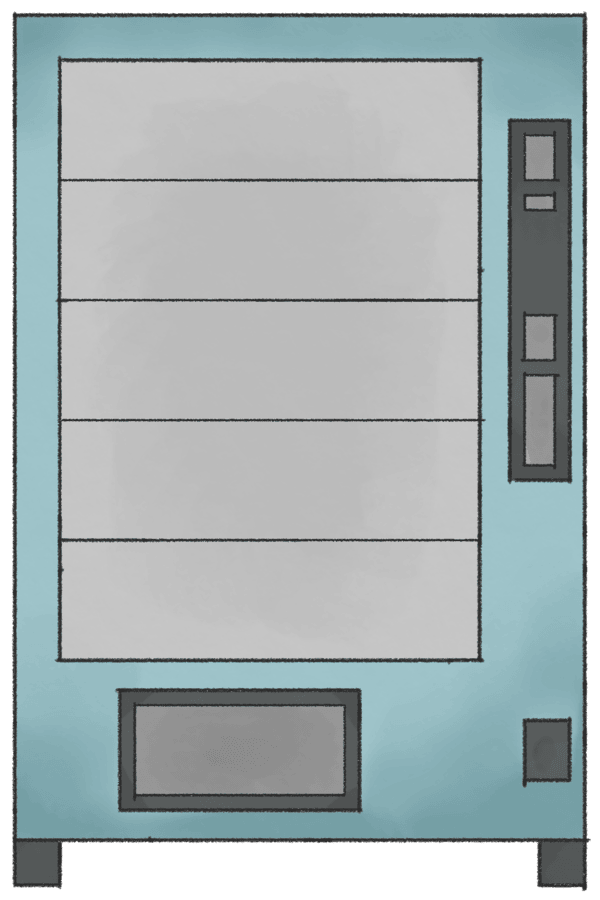
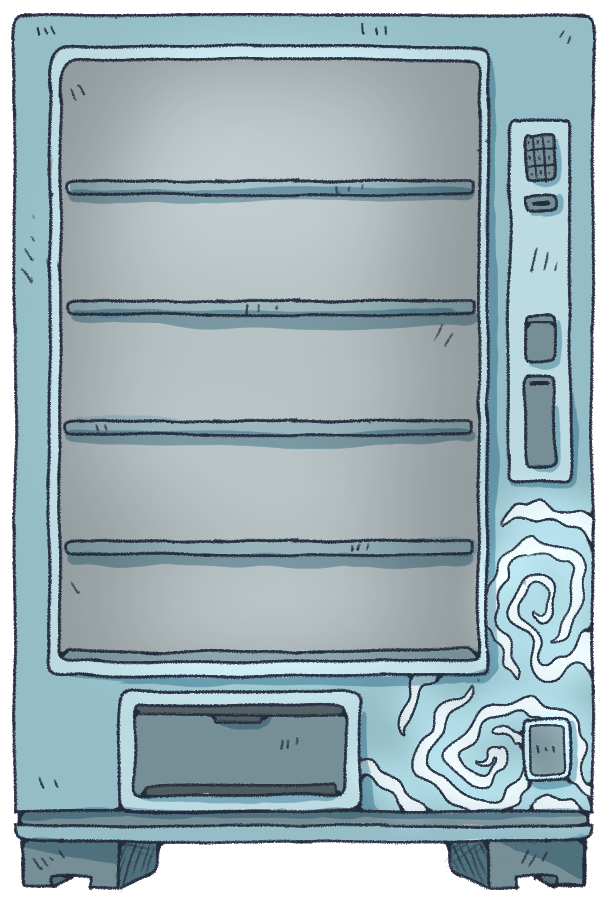
Index update
-add images
-fixed tooltip
-made mouse tooltip and top tooltip
-removed updates

diff --git a/index.html b/index.html
@@ -9,6 +9,11 @@
     <div class="container">
         <h1>Welcome To the Vending Machine</h1>
     </div>
+    <!-- Top Tooltip -->
+    <div class="top-tooltip-section">
+        <p id="top-tooltip-text"></p>
+    </div>
+    <!---->
     <div class="tooltip-section">
         <p id="tooltip-text"></p>
     </div>
@@ -19,25 +24,38 @@
 
             <!-- Icons must be 150 x 72 pixels-->
             <!-- Left side slots -->
-            <a href="pages/about.html" class="slot left-slot" style="top: 8%;" data-tooltip="About"></a>
-            <a href="pages/worldbuilding.html" class="slot left-slot" style="top: 21%;" data-tooltip="World Building"></a>
-            <a href="pages/blog.html" class="slot left-slot" style="top: 34%;" data-tooltip="Blog"></a>
-            <a href="pages/stuff.html" class="slot left-slot" style="top: 48%;" data-tooltip="Random Stuff"></a>
-            <a href="https://phyrestudio.etsy.com" class="slot left-slot" style="top: 61%;" data-tooltip="Store"></a>
+<a href="pages/about.html" class="slot left-slot" style="top: 8%;" data-tooltip="About">
+    <img src="assets/images/About.png" alt="About Icon" width="112" height="112">
+</a>
+<a href="pages/worldbuilding.html" class="slot left-slot" style="top: 21%;" data-tooltip="World Building">
+    <img src="assets/images/Worldb .png" alt="Worldbuilding Icon" width="112" height="112">
+</a>
+<a href="pages/blog.html" class="slot left-slot" style="top: 34%;" data-tooltip="Blog">
+    <img src="assets/images/Blog.png" alt="Blog Icon" width="112" height="112">
+</a>
+<a href="pages/stuff.html" class="slot left-slot" style="top: 48%;" data-tooltip="Random Stuff">
+    <img src="assets/images/Random.png" alt="Random Stuff Icon" width="112" height="112">
+</a>
+<a href="https://phyrestudio.etsy.com" class="slot left-slot" style="top: 61%;" data-tooltip="Store">
+    <img src="assets/images/Shop.png" alt="Store Icon" width="112" height="112">
+</a>
 
-            <!-- Right side slots -->
-            <a href="pages/art.html" class="slot right-slot" style="top:8%;" data-tooltip="Art"></a>
-            <a href="pages/garden.html" class="slot right-slot" style="top: 21%;" data-tooltip="Digial Garden"></a>
-            <a href="pages/fun.html" class="slot right-slot" style="top: 34%;" data-tooltip="Fun and Games"></a>
-            <a href="pages/resources.html" class="slot right-slot" style="top: 48%;" data-tooltip="Resources"></a>
-            <a href="/pages/sitemap.html" class="slot right-slot" style="top: 61%;" data-tooltip="Sitemap"></a>
+<!-- Right side slots -->
+<a href="pages/art.html" class="slot right-slot" style="top:8%;" data-tooltip="Art">
+    <img src="assets/images/Art.png" alt="Art Icon" width="112" height="112">
+</a>
+<a href="pages/garden.html" class="slot right-slot" style="top: 21%;" data-tooltip="Digial Garden">
+    <img src="assets/images/Garden.png" alt="Garden Icon" width="112" height="112">
+</a>
+<a href="pages/fun.html" class="slot right-slot" style="top: 34%;" data-tooltip="Fun and Games">
+    <img src="assets/images/Fun.png" alt="Fun Icon" width="112" height="112">
+</a>
+<a href="pages/resources.html" class="slot right-slot" style="top: 48%;" data-tooltip="Resources">
+    <img src="assets/images/Resource.png" alt="Resources Icon" width="112" height="112">
+</a>
+<a href="/pages/sitemap.html" class="slot right-slot" style="top: 61%;" data-tooltip="Sitemap">
+    <img src="assets/images/Sitemap .png" alt="Sitemap Icon" width="112" height="112"> </a>
         </div>
-    </div>
-
-    <!-- Updates -->
-    <div class="update-section">
-        <h2>Updates</h2>
-        <p></p>
     </div>
     <script src="js/script.js"></script>
 </body>

diff --git a/js/script.js b/js/script.js
@@ -1,20 +1,60 @@
 // Get all slot elements and Tooltip
-const slots = document.querySelectorAll('.slot'); 
+const slots = document.querySelectorAll('.slot');
 const tooltipText = document.getElementById('tooltip-text');
+const tooltipSection = document.querySelector('.tooltip-section');
+const topTooltipSection = document.querySelector('.top-tooltip-section');
+const topTooltipText = document.getElementById('top-tooltip-text');
 
-// Hover Event 
+// Hover Event for Mouse-following Tooltip
 slots.forEach(slot => {
-    slot.addEventListener('mouseover', function() {
-        tooltipText.textContent = slot.getAttribute('data-tooltip'); 
-        const tooltipSection = document.querySelector('.tooltip-section');
-        tooltipSection.style.visibility = 'visible'; 
+    slot.addEventListener('mouseover', function () {
+        tooltipText.textContent = slot.getAttribute('data-tooltip');
+        tooltipSection.style.visibility = 'visible';
         tooltipSection.style.height = '45px';
+
+        // Show the top tooltip text
+        showTopTooltip(slot.getAttribute('data-tooltip'));
+        clearTimeout(window.topTooltipTimeout);  // Prevent timeout for hiding the top tooltip
     });
 
-    slot.addEventListener('mouseout', function() {
-        tooltipText.textContent = ""; 
-        const tooltipSection = document.querySelector('.tooltip-section');
-        tooltipSection.style.visibility = 'hidden'; 
-        tooltipSection.style.height = '0'; 
+    slot.addEventListener('mouseout', function () {
+        tooltipText.textContent = "";
+        tooltipSection.style.visibility = 'hidden';
+        tooltipSection.style.height = '0';
+
+        // Start a timeout to hide the top tooltip after mouseout
+        window.topTooltipTimeout = setTimeout(() => {
+            topTooltipSection.style.visibility = 'hidden';
+            topTooltipSection.style.height = '0';
+        }, 0); // Timeout 0ms, almost immediately hides it
     });
+
+    // Track mouse movement and update tooltip position
+    slot.addEventListener('mousemove', function (e) {
+        const mouseX = e.pageX + 10; // Adds a slight offset from the mouse
+        const mouseY = e.pageY + 10;
+
+        tooltipSection.style.left = mouseX + 'px';
+        tooltipSection.style.top = mouseY + 'px';
+    });
+});
+
+// Tooltip for Top Section
+function showTopTooltip(message) {
+    if (window.scrollY === 0) {
+        topTooltipText.textContent = message; // Display the tooltip text
+        topTooltipSection.style.visibility = 'visible';
+        topTooltipSection.style.height = '45px';
+    }
+}
+
+// Listen for the scroll event to hide/show top tooltip
+window.addEventListener('scroll', function () {
+    if (window.scrollY === 0) {
+        topTooltipSection.style.visibility = 'visible';
+        topTooltipSection.style.height = '45px';
+    } else {
+        topTooltipSection.style.visibility = 'hidden';
+        topTooltipSection.style.height = '0';
+    }
 });

diff --git a/css/styles.css b/css/styles.css
@@ -31,9 +31,9 @@ body {
     width: 100%;
     max-height: 100%; 
     overflow-y: auto; 
-    color: #333;
+    color: #252424;
     font-size: 30px;
-    text-shadow: 3px 3px #969696;
+    text-shadow: 2px 2px #cfcaca;
 }
 
 /* Vending Machine  */
@@ -58,9 +58,23 @@ body {
     position: absolute;
     width: 25%;
     height: 12%; 
-    background: rgba(8, 7, 7, 0.3); 
-    border: 2px solid transparent;
-    transition: border 0.2s ease;
+    background: transparent; /* No background */
+    transition: transform 0.3s ease, border 0.2s ease;
+    display: flex;
+    justify-content: center;
+    align-items: center;
+}
+
+/* Slot images with hover effect */
+.slot img {
+    transition: transform 0.3s ease, filter 0.3s ease, box-shadow 0.3s ease;
+}
+
+/* Hover effect for slot images */
+.slot:hover img {
+    transform: scale(1.1);
+    filter: brightness(1.1);
+    
 }
 
 /* Left side slots */
@@ -75,60 +89,49 @@ body {
 
 /* Hover */
 .slot:hover {
-    border: 2px solid #00f;
+    border: 0px solid #00f;
 }
 
-/* Update */
-.update-section {
-    background-color: #fff;
-    padding: 20px;
-    width: 50%;
-    text-align: center;
-    position: relative;
-    bottom: 0;  
-    left: 50%;  
-    transform: translateX(-50%);  
-    border-top: 2px solid #ccc;
-    box-shadow: 0px 0px 10px rgba(0, 0, 0, 0.1);
-    max-height: 300px; 
-    overflow-y: auto; 
-    margin-bottom: 30px; 
-    z-index: 1000;  
-}
-
-.update-section h2 {
-    margin-bottom: 10px;
-    color: #333;
-}
-
-.update-section p {
-    color: #666;
-    font-size: 16px;
-}
-
-/* Tooltip */
-.tooltip-section {
-    background-color: transparent;  
-    padding: 0px;
+/* Top Tooltip Section */
+.top-tooltip-section {
+    background-color: transparent;
     width: 100%;
     text-align: center;
-    position: absolute;
-    top: 0;
-    left: 50%;
-    transform: translateX(-50%);
-    border-bottom: none;  
-    box-shadow: none;  
-    z-index: 1000;
+    position: relative; /* Make it part of the normal flow */
+    top: 0; 
+    z-index: 1001; 
     font-size: 14px;
-    visibility: hidden; 
+    visibility: hidden;  
+    height: 0;
+    overflow: hidden;
+    text-shadow: 2px 2px #cfcaca;
+    transition: visibility 0s, height 0.3s ease-in-out;
+}
+
+#top-tooltip-text {
+    font-weight: bolder;
+    font-size: 40px;
+    color: #252424;
+}
+
+/* Tooltip Mouse-following */
+.tooltip-section {
+    position: absolute;
+    visibility: hidden;  
     height: 0;  
-    overflow: hidden; 
-    transition: visibility 0s, height 0.3s ease-in-out; 
+    font-size: 18px;
+    padding: 10px;
+    border-radius: 5px;
+    pointer-events: none; 
+    z-index: 1000; 
+    transition: visibility 2s, height 0.3s ease-in-out;
+    text-shadow: 2px 2px #cfcaca;
 }
 
 #tooltip-text {
+    font-weight: bolder;
     font-size: 40px;
-    color: #333;  
+    color: #252424;  
 }
 
 /* Show tooltip hovering  */
